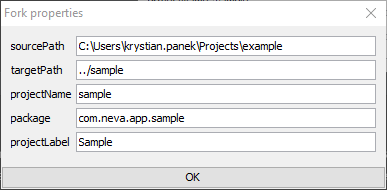
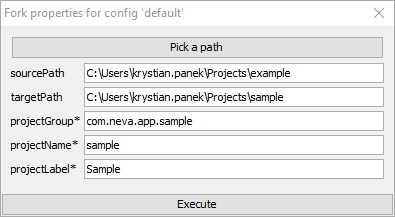
Pick a path, better GUI

diff --git a/src/main/kotlin/com/neva/gradle/fork/gui/PropertyDialog.kt b/src/main/kotlin/com/neva/gradle/fork/gui/PropertyDialog.kt
@@ -1,23 +1,30 @@
 package com.neva.gradle.fork.gui
 
-import com.neva.gradle.fork.ForkException
 import com.neva.gradle.fork.config.Config
 import com.neva.gradle.fork.config.PropertyPrompt
 import net.miginfocom.swing.MigLayout
 import java.awt.Toolkit
+import java.awt.event.FocusEvent
 import java.awt.event.WindowAdapter
 import java.awt.event.WindowEvent
 import javax.swing.*
+import javax.swing.event.DocumentEvent
 
-class PropertyDialog(private val config: Config, private val prompts: List<PropertyPrompt>) {
+class PropertyDialog(private val config: Config) {
 
   private val dialog = JDialog()
 
+  private val fileChooser = JFileChooser()
+
   private lateinit var fields: Map<PropertyPrompt, JTextField>
 
-  private val close = JButton()
+  private var fieldFocused: JTextField? = null
 
-  private var canceled = false
+  private lateinit var pathButton: JButton
+
+  private lateinit var closeButton: JButton
+
+  var cancelled = false
 
   init {
     dialog.apply {
@@ -31,7 +38,20 @@ class PropertyDialog(private val config: Config, private val prompts: List<Prope
       isModal = true
       isResizable = false
 
-      fields = prompts.fold(mutableMapOf(), { r, prompt ->
+      pathButton = JButton("Pick a path")
+      add(pathButton.apply {
+        addActionListener {
+          if (fileChooser.showOpenDialog(this) == JFileChooser.APPROVE_OPTION) {
+            fieldFocused!!.document.insertString(
+              fieldFocused!!.caretPosition,
+              fileChooser.selectedFile.absolutePath.replace("\\", "/"),
+              null
+            )
+          }
+        }
+      }, "span, wrap")
+
+      fields = config.prompts.values.fold(mutableMapOf(), { r, prompt ->
         val label = JLabel(if (prompt.required) "${prompt.label}*" else prompt.label)
         add(label, "align label")
 
@@ -39,20 +59,29 @@ class PropertyDialog(private val config: Config, private val prompts: List<Prope
           PropertyPrompt.Type.PASSWORD -> JPasswordField(prompt.valueOrDefault)
           else -> JTextField(prompt.valueOrDefault)
         }
-        field.addActionListener { this@PropertyDialog.validate() }
+        field.document.addDocumentListener(object : DocumentListener() {
+          override fun change(e: DocumentEvent) {
+            this@PropertyDialog.update()
+          }
+        })
+        field.addFocusListener(object : FocusListener() {
+          override fun focusGained(e: FocusEvent) {
+            fieldFocused = field
+            this@PropertyDialog.update()
+          }
+        })
         add(field, "width 300::, wrap")
 
         r[prompt] = field
         r
       })
 
-      add(close.apply {
-        text = "OK"
+      closeButton = JButton()
+      add(closeButton.apply {
+        text = "Execute"
         addActionListener {
           if (valid) {
             dialog.dispose()
-          } else {
-            focusInvalidField()
           }
         }
       }, "span, south, wrap")
@@ -60,27 +89,23 @@ class PropertyDialog(private val config: Config, private val prompts: List<Prope
       addWindowListener(object : WindowAdapter() {
         override fun windowClosing(e: WindowEvent) {
           e.window.dispose()
-          canceled = true
+          cancelled = true
         }
       })
 
       pack()
       centre()
-      validate()
+      update()
     }
   }
 
-  fun prompt(): Map<String, String> {
+  val props : Map<String, String>
+    get() = fields.entries.fold(mutableMapOf(), { r, e -> r[e.key.name] = e.value.text;r })
+
+  fun update() {
+    closeButton.isEnabled = valid
+    pathButton.isEnabled = fieldFocused != null
     dialog.isVisible = true
-    if (canceled) {
-      throw ForkException("Fork canceled by interactive mode.")
-    }
-
-    return fields.entries.fold(mutableMapOf(), { r, e -> r[e.key.name] = e.value.text;r })
-  }
-
-  fun validate() {
-    close.isEnabled = valid
   }
 
   val valid: Boolean
@@ -88,15 +113,6 @@ class PropertyDialog(private val config: Config, private val prompts: List<Prope
 
   fun isValidField(prompt: PropertyPrompt, field: JTextField): Boolean {
     return !prompt.required || field.text.isNotBlank()
-  }
-
-  fun focusInvalidField() {
-    for ((prompt, field) in fields) {
-      if (!isValidField(prompt, field)) {
-        field.requestFocus()
-        break
-      }
-    }
   }
 
   fun centre() {
@@ -109,13 +125,13 @@ class PropertyDialog(private val config: Config, private val prompts: List<Prope
 
   companion object {
 
-    fun prompt(config: Config, prompts: List<PropertyPrompt>): Map<String, String> {
+    fun make(config: Config): PropertyDialog {
       val laf = UIManager.getLookAndFeel()
       UIManager.setLookAndFeel(UIManager.getSystemLookAndFeelClassName())
-      val result = PropertyDialog(config, prompts).prompt()
+      val dialog = PropertyDialog(config)
       UIManager.setLookAndFeel(laf)
 
-      return result
+      return dialog
     }
 
   }

diff --git a/src/main/kotlin/com/neva/gradle/fork/config/Config.kt b/src/main/kotlin/com/neva/gradle/fork/config/Config.kt
@@ -127,8 +127,11 @@ abstract class Config(val project: Project, val name: String) {
 
   private fun promptFillGui() {
     if (interactive) {
-      val guiProps = PropertyDialog.prompt(this, prompts.values.toList())
-      guiProps.forEach { p, v -> prompts[p]?.value = v }
+      val dialog = PropertyDialog.make(this)
+      dialog.props.forEach { p, v -> prompts[p]?.value = v }
+      if (dialog.cancelled) {
+        throw ForkException("Fork cancelled by interactive mode.")
+      }
     }
   }
 

diff --git a/src/main/kotlin/com/neva/gradle/fork/gui/DocumentListener.kt b/src/main/kotlin/com/neva/gradle/fork/gui/DocumentListener.kt
@@ -1,0 +1,22 @@
+package com.neva.gradle.fork.gui
+
+import javax.swing.event.DocumentEvent
+import javax.swing.event.DocumentListener as Base
+
+abstract class DocumentListener : Base  {
+
+  override fun changedUpdate(e: DocumentEvent) {
+    change(e)
+  }
+
+  override fun insertUpdate(e: DocumentEvent) {
+    change(e)
+  }
+
+  override fun removeUpdate(e: DocumentEvent) {
+    change(e)
+  }
+
+  abstract fun change(e: DocumentEvent)
+
+}

diff --git a/src/main/kotlin/com/neva/gradle/fork/gui/FocusListener.kt b/src/main/kotlin/com/neva/gradle/fork/gui/FocusListener.kt
@@ -1,0 +1,16 @@
+package com.neva.gradle.fork.gui
+
+import java.awt.event.FocusEvent
+import java.awt.event.FocusListener as Base
+
+abstract class FocusListener : Base {
+
+  override fun focusLost(e: FocusEvent) {
+    // intentionally empty
+  }
+
+  override fun focusGained(e: FocusEvent) {
+    // intentionally empty
+  }
+
+}

diff --git a/README.md b/README.md
@@ -38,14 +38,14 @@ buildscript {
       maven { url  "https://dl.bintray.com/neva-dev/maven-public" }
   }
   dependencies {
-      classpath 'com.neva.gradle:fork-plugin:1.0.2'
+      classpath 'com.neva.gradle:fork-plugin:1.0.3'
   }
 }
 
 apply plugin: 'com.neva.fork'
 
 fork {
-    config {
+    config /* 'default', */ { 
         cloneFiles()
         moveFiles([
                 "/com/company/app/example": "/{{projectGroup|substitute('.', '/')}}/{{projectName}}",
@@ -57,6 +57,8 @@ fork {
                 "Example": "{{projectLabel}}",
                 "example": "{{projectName}}",
         ])
+    }
+    inPlaceConfig 'setup', {
         copyTemplateFile("gradle.properties")
     }
 }
@@ -64,17 +66,28 @@ fork {
 
 ### Defining and executing configurations
 
-Fork configuration will:
+Fork plugin allows to have multiple fork configurations defined. In above sample build script, there are 2 configurations defined:
 
-* Copy all project files respecting filtering defined in *.gitignore* files.
-* Rename directories using rules with properties injecting.
-* Replace contents using rules with properties injecting.
-* Generate from template a file containing user specific properties (like repository credentials etc).
+1. Configuration *default* with the purpose of creating a new project based on existing one. In detail, it will:
+    * Copy all project files respecting filtering defined in *.gitignore* files.
+    * Rename directories using rules with properties injecting.
+    * Replace contents using rules with properties injecting.
+2. Configuration *setup* with the purpose of creating initial configuration before building project. In detail, it will:
+    * Generate from template a file containing user specific properties (like repository credentials etc).
 
-To execute default configuration, run command:
+To determine which configurations should be executed, command line parameter could be used:
 
 ```bash
-sh gradlew fork
+gradlew fork -Pfork.config=setup
+gradlew fork -Pfork.config=*
+gradlew fork -Pfork.config=no-search,no-auth
+```
+
+When parameter is skipped, then only *default* configuration will be executed. 
+
+```bash
+gradlew fork 
+gradlew fork -Pfork.config=default
 ```
 
 ### Providing properties
@@ -84,22 +97,22 @@ Properties can be provided by (order makes precedence):
 1. File which path could be specified as command line parameter:
 
     ```bash
-    sh gradlew fork -Pfork.properties=fork.properties
+    gradlew fork -Pfork.properties=fork.properties
     ```
     
     Such file should be in format:
     
     ```bash
     targetPath=../sample
+    projectGroup=com.neva.app
     projectName=sample
     projectLabel=Sample
-    package=com.neva.app.sample
     ```
   
 2. Each property defined separately as command line parameter:
 
     ```bash
-    sh gradlew fork -PprojectName=sample -PprojectLabel=Sample -PtargetPath=../sample -Ppackage=com.neva.app.sample
+    gradlew fork -PprojectName=sample -PprojectLabel=Sample -PtargetPath=../sample -Ppackage=com.neva.app.sample
     ```
 
 3. GUI / properties dialog
@@ -111,7 +124,7 @@ Properties can be provided by (order makes precedence):
     To disable it, use command line parameter:
     
     ```bash
-    sh gradlew fork -Pfork.interactive=false
+    gradlew fork -Pfork.interactive=false
     ```
   
 4. Mixed approach.
